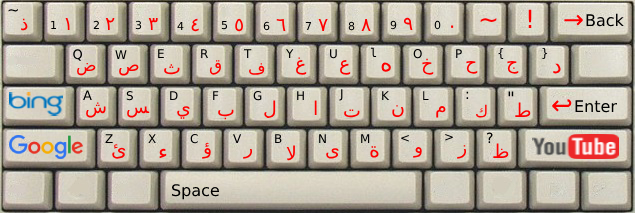
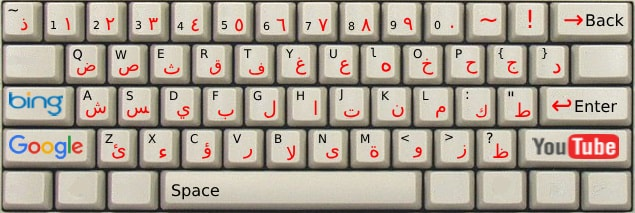
compress keyboard image for faster page load time

diff --git a/index.html b/index.html
@@ -86,7 +86,7 @@
 
             <center>
 
-              <textarea autocorrect="off" autocapitalize="off" id="textarea" rows="5" cols="61" dir="rtl" style="width: 100%; margin-bottom: -6px; border-top: 2px solid #B5B5B5; border-right: 2px solid #B5B5B5; border-left: 2px solid #B5B5B5; border-bottom: none; border-radius: 6px 6px 0px 0px; color: #444; font-family: 'Simplified Arabic','Times New Roman'; font-size: 17pt; padding-right: 8px; overflow: auto;" autofocus=></textarea>
+              <textarea autocorrect="off" autocapitalize="off" id="textarea" rows="5" cols="61" dir="rtl" style="width: 100%; margin-bottom: -6px; border-top: 2px solid #B5B5B5; border-right: 2px solid #B5B5B5; border-left: 2px solid #B5B5B5; border-bottom: none; border-radius: 6px 6px 0px 0px; color: #444; font-family: 'Simplified Arabic','Times New Roman'; font-size: 17pt; padding-right: 8px; overflow: auto;" autofocus></textarea>
               <div style="background: #EEE url('./imgs/scroll.png') no-repeat scroll center 2px; height: 9px; width: 100%; overflow: hidden; border-left: 2px solid #b5b5b5; border-right: 2px solid #B5B5B5; margin-right: 0px;"></div>
               <img src="./imgs/keyboard.jpg" usemap="#keyboardmap" style="-webkit-user-select: none; -moz-user-select: none; -ms-user-select: none; width: 100%; height: auto;">
               
